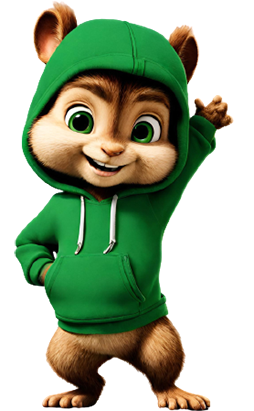
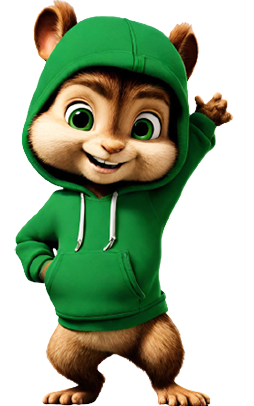
mobile screen

diff --git a/styles.css b/styles.css
@@ -101,8 +101,8 @@ body {
 }
 
 .responsive-image {
-  width: 42%;
-  height: 52%;
+  width: 50%;
+  height: 65%;
   margin: 0 auto;
   display: block;
 }
